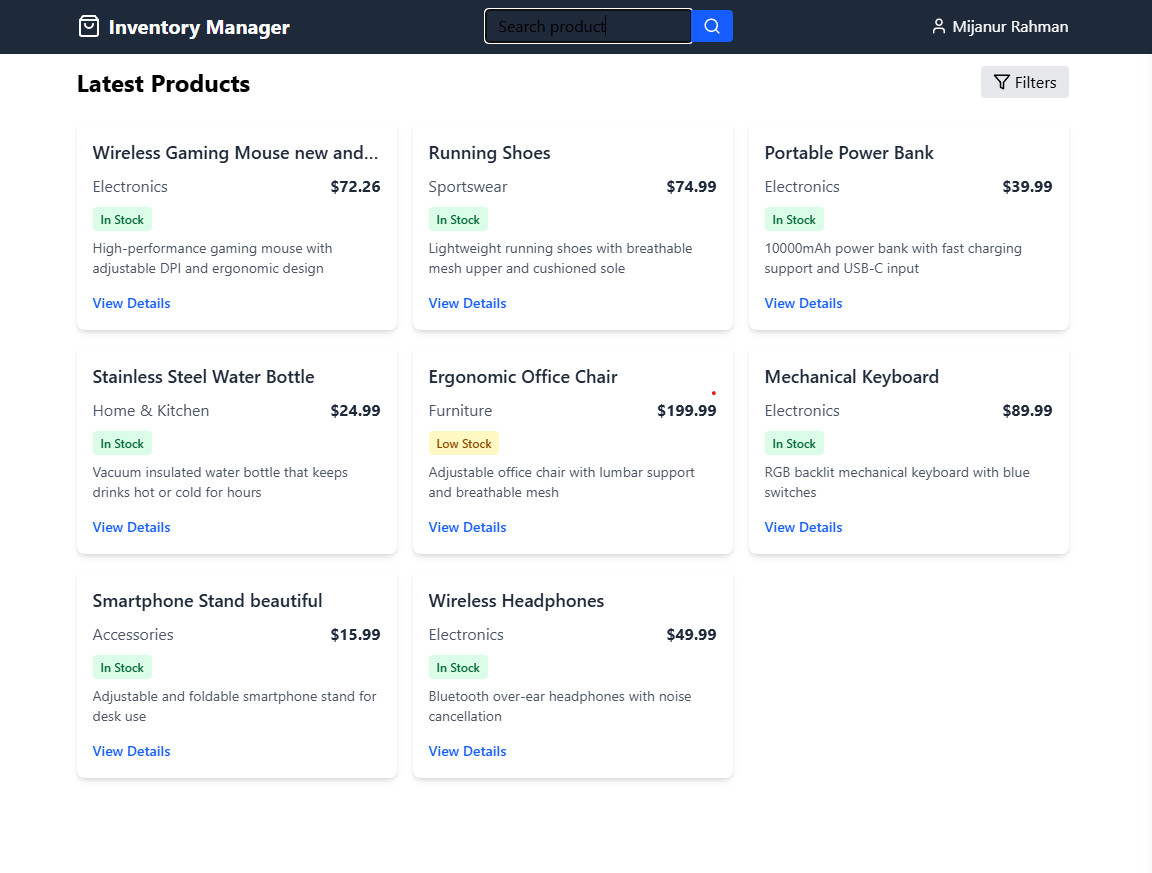
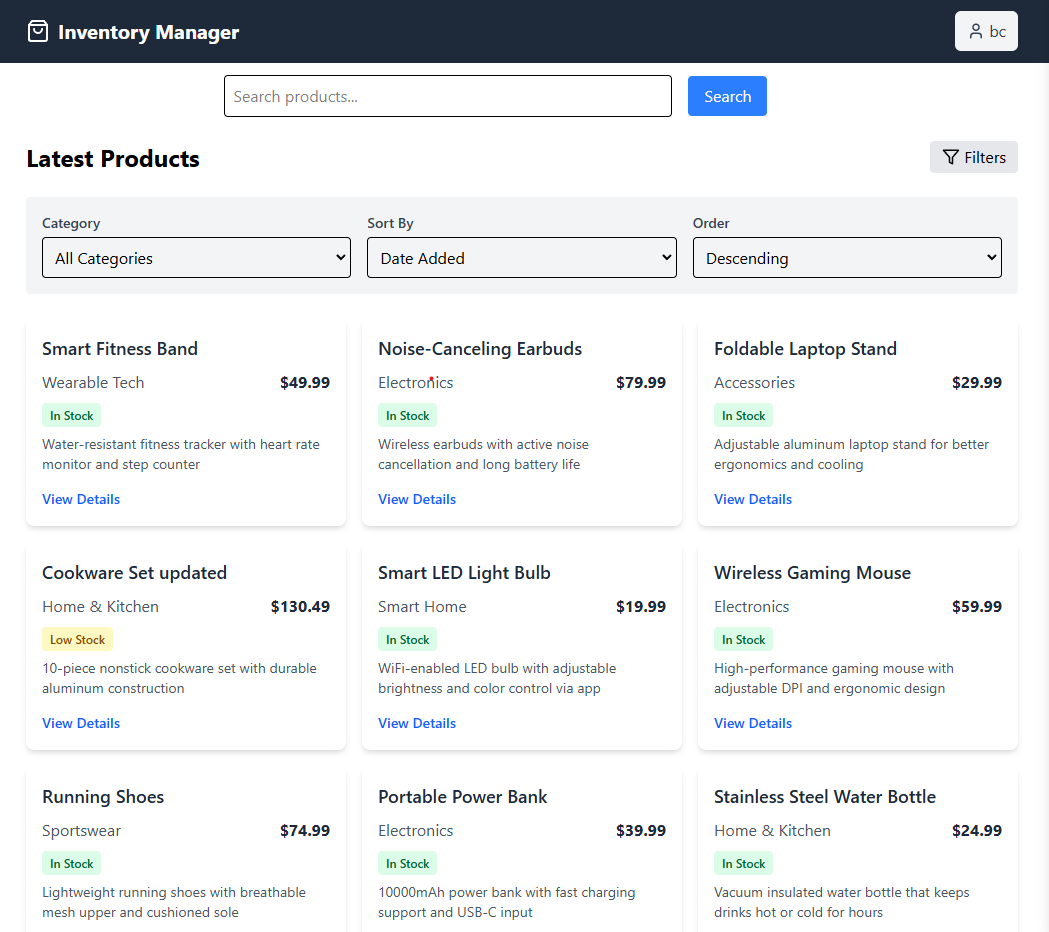
updated

diff --git a/backend/controllers/productController.js b/backend/controllers/productController.js
@@ -1,9 +1,6 @@
 import mongoose from 'mongoose';
 import Product from '../models/Product.js';
 
-// @desc    Fetch all products
-// @route   GET /api/products
-// @access  Public
 const getProducts = async (req, res) => {
     const pageSize = 10;
     const page = Number(req.query.pageNumber) || 1;
@@ -42,12 +39,11 @@ const getProducts = async (req, res) => {
     });
 };
 
-// @desc    Fetch single product
-// @route   GET /api/products/:id
-// @access  Public
 const getProductById = async (req, res) => {
     if (!mongoose.Types.ObjectId.isValid(req.params.id)) {
-        return res.status(400).json({ message: 'Invalid product ID' });
+        return res
+            .status(400)
+            .json({ message: 'Invalid product ID for single product' });
     }
 
     const product = await Product.findById(req.params?.id);
@@ -59,9 +55,6 @@ const getProductById = async (req, res) => {
     }
 };
 
-// @desc    Create a product
-// @route   POST /api/products
-// @access  Private/Admin
 const createProduct = async (req, res) => {
     const { name, price, description, category, stock } = req.body;
 
@@ -77,16 +70,38 @@ const createProduct = async (req, res) => {
     res.status(201).json(createdProduct);
 };
 
-// @desc    Update a product
-// @route   PUT /api/products/:id
-// @access  Private/Admin
+const searchProducts = async (req, res) => {
+    try {
+        const keyword = req.query?.keyword?.trim();
+
+        if (!keyword) {
+            return res
+                .status(400)
+                .json({ message: 'Search keyword is required' });
+        }
+
+        const products = await Product.find({
+            name: { $regex: keyword, $options: 'i' }
+        });
+
+        res.send(products);
+    } catch (error) {
+        res.status(500).json({
+            message: 'Internal Server Error',
+            error: error.message
+        });
+    }
+};
+
 const updateProduct = async (req, res) => {
     try {
         const { id } = req.params;
 
         // Check if ID is valid
         if (!mongoose.Types.ObjectId.isValid(id)) {
-            return res.status(400).json({ message: 'Invalid product ID' });
+            return res
+                .status(400)
+                .json({ message: 'Invalid product ID for update' });
         }
 
         const { name, price, description, category, stock } = req.body;
@@ -109,9 +124,6 @@ const updateProduct = async (req, res) => {
     }
 };
 
-// @desc    Delete a product
-// @route   DELETE /api/products/:id
-// @access  Private/Admin
 const deleteProduct = async (req, res) => {
     if (!mongoose.Types.ObjectId.isValid(req.params?.id)) {
         return res.status(400).json({ message: 'Invalid product ID' });
@@ -127,9 +139,6 @@ const deleteProduct = async (req, res) => {
     }
 };
 
-// @desc    Get product categories
-// @route   GET /api/products/categories
-// @access  Public
 const getProductCategories = async (req, res) => {
     const categories = await Product.distinct('category');
     res.json(categories);
@@ -139,6 +148,7 @@ export {
     getProducts,
     getProductById,
     createProduct,
+    searchProducts,
     updateProduct,
     deleteProduct,
     getProductCategories

diff --git a/backend/controllers/userController.js b/backend/controllers/userController.js
@@ -1,9 +1,7 @@
 import User from '../models/User.js';
 import generateToken from '../utils/generateToken.js';
+import asyncHandler from 'express-async-handler';
 
-// @desc    Auth user & get token
-// @route   POST /api/users/login
-// @access  Public
 const authUser = async (req, res) => {
     try {
         const { email, password } = req.body;
@@ -30,9 +28,6 @@ const authUser = async (req, res) => {
     }
 };
 
-// @desc    Register a new user
-// @route   POST /api/users
-// @access  Public
 const registerUser = async (req, res) => {
     try {
         const { name, email, password } = req.body;
@@ -46,7 +41,7 @@ const registerUser = async (req, res) => {
         const user = await User.create({
             name,
             email,
-            password // Ensure this is hashed in the User model
+            password
         });
 
         if (user) {
@@ -65,9 +60,6 @@ const registerUser = async (req, res) => {
     }
 };
 
-// @desc    Get user profile
-// @route   GET /api/users/profile
-// @access  Private
 const getUserProfile = async (req, res) => {
     try {
         const user = await User.findById(req.user._id);
@@ -87,4 +79,35 @@ const getUserProfile = async (req, res) => {
     }
 };
 
-export { authUser, registerUser, getUserProfile };
+const updateProfile = asyncHandler(async (req, res) => {
+    const user = await User.findById(req.user._id);
+
+    if (user) {
+        user.name = req.body.name || user.name;
+        user.email = req.body.email || user.email;
+
+        // Only admins can update the admin status
+        // if (req.user.isAdmin && req.body.isAdmin !== undefined) {
+        //     user.isAdmin = req.body.isAdmin;
+        // }
+
+        // user can update the admin status of their own profile
+        if (req.body.isAdmin !== undefined) {
+            user.isAdmin = req.body?.isAdmin;
+        }
+
+        const updatedUser = await user.save();
+
+        res.json({
+            _id: updatedUser?._id,
+            name: updatedUser?.name,
+            email: updatedUser?.email,
+            isAdmin: updatedUser?.isAdmin
+        });
+    } else {
+        res.status(404);
+        throw new Error('User not found');
+    }
+});
+
+export { authUser, registerUser, getUserProfile, updateProfile };

diff --git a/backend/index.js b/backend/index.js
@@ -15,7 +15,18 @@ const app = express();
 
 // Middleware
 app.use(express.json());
-app.use(cors());
+
+// Configure CORS
+const allowedOrigins = ['http://localhost:5173']; // Add your frontend URL here
+
+app.use(
+    cors({
+        origin: allowedOrigins, // Specify allowed origins
+        credentials: true, // Allow cookies & authorization headers
+        methods: ['GET', 'POST', 'PUT', 'DELETE'], // Allowed HTTP methods
+        allowedHeaders: ['Content-Type', 'Authorization'] // Allowed headers
+    })
+);
 
 // Routes
 app.use('/api/products', productRoutes);
@@ -33,6 +44,6 @@ const PORT = process.env.PORT || 5000;
 
 app.listen(PORT, () => {
     console.log(
-        `Server running in ${process.env.NODE_ENV} mode on port http://localhost:${PORT}`
+        `Server running in ${process.env.NODE_ENV} mode on http://localhost:${PORT}`
     );
 });

diff --git a/backend/routes/userRoutes.js b/backend/routes/userRoutes.js
@@ -2,16 +2,16 @@ import express from 'express';
 import {
     authUser,
     registerUser,
-    getUserProfile
+    getUserProfile,
+    updateProfile
 } from '../controllers/userController.js';
 import { protect } from '../middleware/authMiddleware.js';
 
 const router = express.Router();
 
-// router.route('/').post(registerUser);
 router.post('/', registerUser);
 router.post('/login', authUser);
-// router.route('/profile').get(protect, getUserProfile);
 router.get('/profile', protect, getUserProfile);
+router.post('/profile/edit', protect, updateProfile);
 
 export default router;

diff --git a/backend/middleware/authMiddleware.js b/backend/middleware/authMiddleware.js
@@ -18,6 +18,7 @@ const protect = asyncHandler(async (req, res, next) => {
             req.user = await User.findById(decoded.id).select('-password');
 
             if (!req.user) {
+                console.log('User ID from Token:', decoded.id);
                 console.log('User not found in the database');
                 res.status(401);
                 throw new Error('Not authorized, user not found');

diff --git a/backend/routes/productRoutes.js b/backend/routes/productRoutes.js
@@ -3,6 +3,7 @@ import {
     getProducts,
     getProductById,
     createProduct,
+    searchProducts,
     updateProduct,
     deleteProduct,
     getProductCategories
@@ -13,6 +14,7 @@ const router = express.Router();
 
 // public rotes==============
 router.get('/', getProducts);
+router.get('/search', searchProducts);
 router.get('/:id', getProductById);
 router.get('/categories', getProductCategories);
 

diff --git a/README.md b/README.md
@@ -63,6 +63,9 @@ MERN-Inventory-Management/
 ![homepage](./projectimages/homepage.png)
 ![editimage](./projectimages/editimage.png)
 ![admindashboard](./projectimages/admindashboard.png)
+![createProduct](./projectimages/createProduct.png)
+![userpage](./projectimages/userpage.png)
+![useredit](./projectimages/useredit.png)
 
 ## Setup Instructions
 
@@ -107,5 +110,3 @@ MERN-Inventory-Management/
     ```
 
 ---
-
-# Product-Inventory
